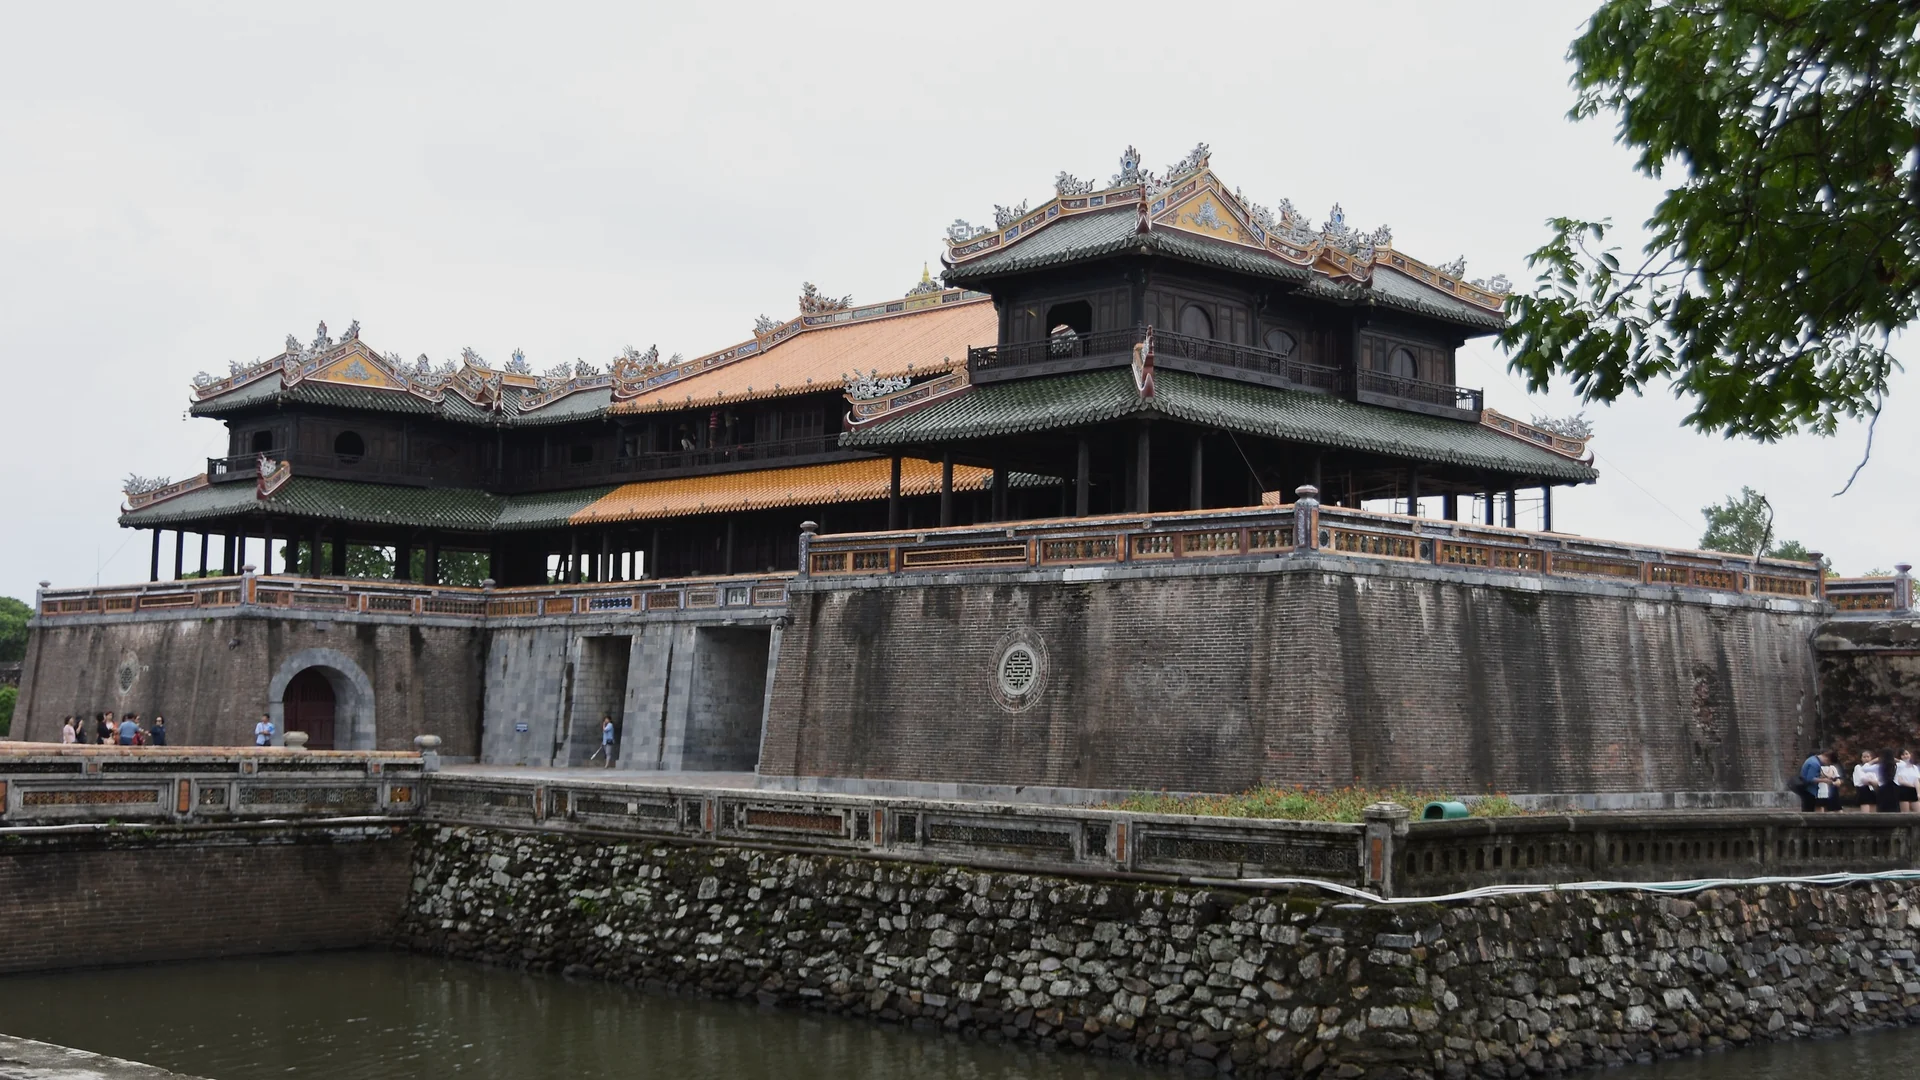
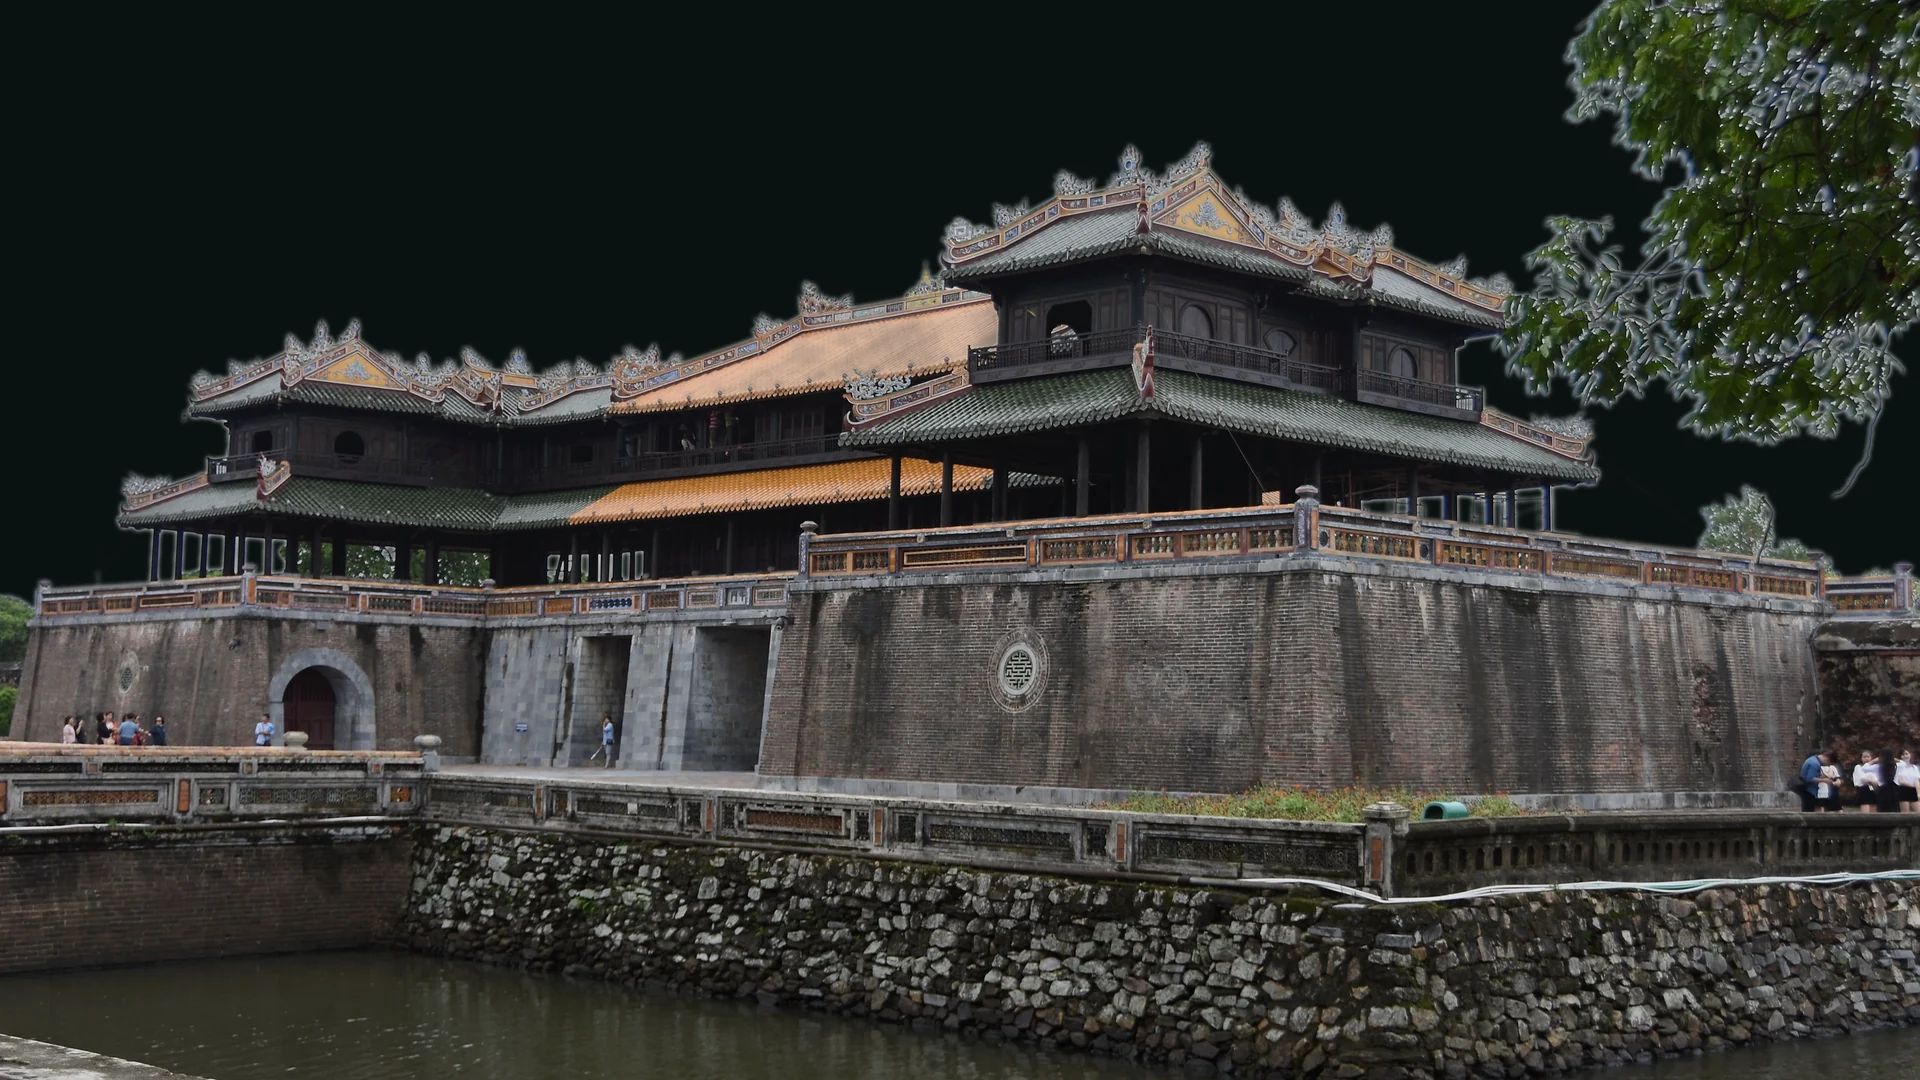
assets: integrate keyed Huế imperial layers

diff --git a/tools/refine_hue_split_pair.py b/tools/refine_hue_split_pair.py
@@ -1,10 +1,9 @@
 #!/usr/bin/env python3
-"""Post-process the Huế Imperial Threshold split pair after human visual veto.
+"""Post-process Huế Imperial Threshold layers after rendered integration review.
 
-The first split treatment duplicated the gate when the two animated layers were
-combined. This refinement keeps both layers registered to the same full-frame
-Ngọ Môn crop and changes only their alpha masks, so the pair reconstructs one
-continuous architectural scene before the doors separate in motion.
+V5 fixed the duplicated split pair. V6 removes the bright low-saturation sky from
+the Ngọ Môn threshold/split layers so the architecture behaves like a cinematic
+foreground cutout over the river world instead of an opaque rectangular photo.
 """
 
 from __future__ import annotations
@@ -14,7 +13,7 @@ import math
 import re
 from pathlib import Path
 
-from PIL import Image, ImageDraw, ImageFilter
+from PIL import Image, ImageChops, ImageDraw, ImageFilter
 
 import build_hue_assets as builder
 
@@ -32,7 +31,39 @@ def split_mask(side: str) -> Image.Image:
     return mask.filter(ImageFilter.GaussianBlur(12))
 
 
-def build_pair(source: Image.Image) -> tuple[Image.Image, Image.Image]:
+def sky_key_mask(img: Image.Image) -> Image.Image:
+    """Build a soft matte that removes bright neutral sky while preserving architecture.
+
+    The source has an almost white/grey sky and substantially darker or more
+    saturated roofs/walls/foliage. We key only bright + low-saturation pixels and
+    feather the transition, avoiding a semantic segmentation dependency.
+    """
+    rgb = img.convert("RGB")
+    hsv = rgb.convert("HSV")
+    w, h = rgb.size
+    hp = hsv.load()
+    mask = Image.new("L", (w, h), 255)
+    mp = mask.load()
+
+    # Protect the lower architectural mass even when stone highlights are bright.
+    protect_after = int(h * 0.67)
+    for y in range(h):
+        for x in range(w):
+            if y >= protect_after:
+                continue
+            _hue, sat, val = hp[x, y]
+            # Neutral + bright pixels are sky candidates. The range between
+            # 180..225 creates a soft alpha ramp rather than a hard chroma key.
+            if sat < 74 and val > 180:
+                strength = min(1.0, max(0.0, (val - 180) / 45.0))
+                neutral = min(1.0, max(0.0, (74 - sat) / 40.0))
+                remove = strength * neutral
+                mp[x, y] = round(255 * (1.0 - remove))
+
+    return mask.filter(ImageFilter.GaussianBlur(2.2))
+
+
+def grade_registered_source(source: Image.Image) -> Image.Image:
     full = builder.cover(source, builder.CANVAS, focus=(0.50, 0.60))
     full = builder.grade(
         full,
@@ -41,11 +72,42 @@ def build_pair(source: Image.Image) -> tuple[Image.Image, Image.Image]:
         brightness=0.94,
         tint=(64, 27, 20, 10),
     )
+    return full
+
+
+def build_pair(source: Image.Image) -> tuple[Image.Image, Image.Image]:
+    full = grade_registered_source(source)
+    keyed = sky_key_mask(full)
+
     left = full.copy()
     right = full.copy()
-    left.putalpha(split_mask("left"))
-    right.putalpha(split_mask("right"))
+    left.putalpha(ImageChops.multiply(keyed, split_mask("left")))
+    right.putalpha(ImageChops.multiply(keyed, split_mask("right")))
     return left, right
+
+
+def rebuild_threshold(source: Image.Image) -> Image.Image:
+    """Create one centered architectural portal with keyed sky and restrained edges."""
+    panel_size = (1600, 900)
+    panel = builder.cover(source, panel_size, focus=(0.50, 0.60))
+    panel = builder.grade(
+        panel,
+        saturation=0.92,
+        contrast=1.04,
+        brightness=0.92,
+        tint=(76, 28, 20, 12),
+    )
+
+    key = sky_key_mask(panel)
+    edge = Image.new("L", panel_size, 0)
+    ed = ImageDraw.Draw(edge)
+    ed.rectangle((14, 14, panel_size[0] - 14, panel_size[1] - 14), fill=255)
+    edge = edge.filter(ImageFilter.GaussianBlur(10))
+    panel.putalpha(ImageChops.multiply(key, edge))
+
+    canvas = Image.new("RGBA", builder.CANVAS, (0, 0, 0, 0))
+    canvas.alpha_composite(panel, (160, 90))
+    return canvas
 
 
 def contact_sheet(scene_paths: list[Path], left: Image.Image, right: Image.Image) -> None:
@@ -62,7 +124,7 @@ def contact_sheet(scene_paths: list[Path], left: Image.Image, right: Image.Image
             pair_bg = Image.new("RGBA", builder.CANVAS, (*BG, 255))
             pair_bg = Image.alpha_composite(pair_bg, left)
             pair_bg = Image.alpha_composite(pair_bg, right)
-            entries.append(("04+05 split-pair preview", pair_bg.convert("RGB")))
+            entries.append(("04+05 split-pair proof · sky keyed", pair_bg.convert("RGB")))
 
     cols = 2
     rows = math.ceil(len(entries) / cols)
@@ -87,11 +149,12 @@ def contact_sheet(scene_paths: list[Path], left: Image.Image, right: Image.Image
 def update_metadata() -> None:
     manifest_path = builder.OUT / "asset-manifest.json"
     manifest = json.loads(manifest_path.read_text(encoding="utf-8"))
-    manifest["visual_veto_revision"] = "v5"
+    manifest["visual_veto_revision"] = "v6-render-integration"
 
     changes = {
-        "scenes/04-imperial-left.webp": "registered left half of one shared Ngọ Môn full-frame crop; centre-edge feather only; reconstructs a single scene with 05 before split motion",
-        "scenes/05-imperial-right.webp": "registered right half of one shared Ngọ Môn full-frame crop; centre-edge feather only; reconstructs a single scene with 04 before split motion",
+        "scenes/03-ngo-mon-threshold.webp": "centered Ngọ Môn architectural portal; bright low-saturation sky keyed to alpha; restrained edge feather for cinematic layering",
+        "scenes/04-imperial-left.webp": "registered left half of shared Ngọ Môn crop; bright neutral sky keyed to alpha; centre-edge feather only",
+        "scenes/05-imperial-right.webp": "registered right half of shared Ngọ Môn crop; bright neutral sky keyed to alpha; centre-edge feather only",
     }
     for item in manifest["generated"]:
         rel = item["path"]
@@ -101,7 +164,7 @@ def update_metadata() -> None:
             item["sha256"] = builder.sha256(path)
             item["mode"] = Image.open(path).mode
         if rel == "previews/scene-contact-sheet.webp":
-            item["changes"] = "visual-veto contact sheet of seven scene outputs plus aligned 04+05 split-pair preview"
+            item["changes"] = "render-integration contact sheet; seven scene outputs plus keyed 04+05 split-pair proof"
             item["sha256"] = builder.sha256(path)
             item["size"] = list(Image.open(path).size)
 
@@ -109,21 +172,12 @@ def update_metadata() -> None:
 
     credits_path = builder.OUT / "CREDITS.md"
     credits = credits_path.read_text(encoding="utf-8")
-    credits = re.sub(
-        r"(### `scenes/04-imperial-left\.webp`.*?- \*\*Transformation:\*\* )[^\n]+",
-        r"\1" + changes["scenes/04-imperial-left.webp"],
-        credits,
-        flags=re.S,
-    )
-    credits = re.sub(
-        r"(### `scenes/05-imperial-right\.webp`.*?- \*\*Transformation:\*\* )[^\n]+",
-        r"\1" + changes["scenes/05-imperial-right.webp"],
-        credits,
-        flags=re.S,
-    )
+    for rel, text in changes.items():
+        pattern = rf"(### `{re.escape(rel)}`.*?- \*\*Transformation:\*\* )[^\n]+"
+        credits = re.sub(pattern, r"\1" + text, credits, flags=re.S)
     credits = re.sub(
         r"(### `previews/scene-contact-sheet\.webp`.*?- \*\*Transformation:\*\* )[^\n]+",
-        r"\1visual-veto contact sheet of seven scene outputs plus aligned 04+05 split-pair preview",
+        r"\1render-integration contact sheet; seven scene outputs plus keyed 04+05 split-pair proof",
         credits,
         flags=re.S,
     )
@@ -132,13 +186,15 @@ def update_metadata() -> None:
 
 def main() -> int:
     source = Image.open(builder.SOURCE_DIR / "ngo-mon.jpg").convert("RGB")
+
+    threshold = rebuild_threshold(source)
     left, right = build_pair(source)
+    builder.save_webp(threshold, builder.SCENE_DIR / "03-ngo-mon-threshold.webp")
     builder.save_webp(left, builder.SCENE_DIR / "04-imperial-left.webp")
     builder.save_webp(right, builder.SCENE_DIR / "05-imperial-right.webp")
 
     scene_paths = sorted(builder.SCENE_DIR.glob("*.webp"))
     contact_sheet(scene_paths, left, right)
-    update_metadata()
 
     pair_bg = Image.new("RGBA", builder.CANVAS, (*BG, 255))
     pair_bg = Image.alpha_composite(pair_bg, left)
@@ -146,7 +202,9 @@ def main() -> int:
     pair_path = builder.PREVIEW_DIR / "split-pair-proof.webp"
     builder.save_webp(pair_bg.convert("RGB"), pair_path, quality=86)
 
-    print("Refined Imperial split pair: aligned single-scene reconstruction")
+    update_metadata()
+
+    print("Refined Imperial layers: aligned split pair + bright-sky alpha key")
     print(f"Proof: {pair_path}")
     return 0
 

diff --git a/assets/hue/CREDITS.md b/assets/hue/CREDITS.md
@@ -82,19 +82,19 @@ They are not official Huế tourism or heritage-centre assets.
 ### `scenes/03-ngo-mon-threshold.webp`
 
 - **Source IDs:** A01
-- **Transformation:** 1600×900 inset architectural portal; narrow edge feather; subtle threshold rules; transparent outer canvas
+- **Transformation:** centered Ngọ Môn architectural portal; bright low-saturation sky keyed to alpha; restrained edge feather for cinematic layering
 - **Output:** 1920 × 1080 · RGBA
 
 ### `scenes/04-imperial-left.webp`
 
 - **Source IDs:** A01
-- **Transformation:** registered left half of one shared Ngọ Môn full-frame crop; centre-edge feather only; reconstructs a single scene with 05 before split motion
+- **Transformation:** registered left half of shared Ngọ Môn crop; bright neutral sky keyed to alpha; centre-edge feather only
 - **Output:** 1920 × 1080 · RGBA
 
 ### `scenes/05-imperial-right.webp`
 
 - **Source IDs:** A01
-- **Transformation:** registered right half of one shared Ngọ Môn full-frame crop; centre-edge feather only; reconstructs a single scene with 04 before split motion
+- **Transformation:** registered right half of shared Ngọ Môn crop; bright neutral sky keyed to alpha; centre-edge feather only
 - **Output:** 1920 × 1080 · RGBA
 
 ### `scenes/06-river-transition.webp`
@@ -160,7 +160,7 @@ They are not official Huế tourism or heritage-centre assets.
 ### `previews/scene-contact-sheet.webp`
 
 - **Source IDs:** DERIVED_SCENES
-- **Transformation:** visual-veto contact sheet of seven scene outputs plus aligned 04+05 split-pair preview
+- **Transformation:** render-integration contact sheet; seven scene outputs plus keyed 04+05 split-pair proof
 - **Output:** 1032 × 1376 · RGB
 
 ## Local SVG marker system
